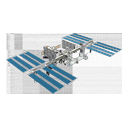
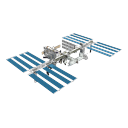
update(images): refine satellite image workflow and update ID 25544 presets
- Enhanced `ICON_WORKFLOW.md` with clarified instructions on preserving masters.
- Updated `process_satellite_icons.py` to prevent rewriting masters and ensure alpha preservation.
- Refreshed satellite images for ID 25544 across resolutions: 64, 128, 256, and full.

Changed region(s): [[0.0312, 0.25, 0.9688, 0.75], [0.5938, 0.4688, 0.625, 0.5], [0.25, 0.3125, 0.2812, 0.3438]]

diff --git a/backend/scripts/process_satellite_icons.py b/backend/scripts/process_satellite_icons.py
@@ -1,5 +1,5 @@
 #!/usr/bin/env python3
-"""Batch-generate transparent satellite icon masters and 64/128/256 presets."""
+"""Batch-generate 64/128/256 satellite icon presets from transparent masters."""
 
 from __future__ import annotations
 
@@ -337,7 +337,6 @@ def _extract_selected_mask(
 
 def process_satellite_image(
     source_path: Path,
-    source_dir: Path,
     output_dir: Path,
     sizes: list[int],
     padding_ratio: float,
@@ -407,16 +406,20 @@ def process_satellite_image(
 
     trimmed = rgba[top:bottom, left:right].copy()
     trimmed_mask = selected_mask[top:bottom, left:right]
-    trimmed[:, :, 3] = np.where(trimmed_mask, 255, 0).astype(np.uint8)
+    if np.all(source_alpha == 255):
+        trimmed[:, :, 3] = np.where(trimmed_mask, 255, 0).astype(np.uint8)
+    else:
+        # Masters already have an approved alpha mask. Preserve partial-alpha edge pixels
+        # in the resized presets instead of flattening them to opaque pixels.
+        trimmed[:, :, 3] = np.where(trimmed_mask, trimmed[:, :, 3], 0).astype(np.uint8)
     # Keep RGB black where transparent to avoid dark/bright fringes in compositing.
     trimmed[:, :, :3][trimmed[:, :, 3] == 0] = 0
 
     master_image = Image.fromarray(trimmed, mode="RGBA")
-    master_path = source_dir / f"{norad}.png"
+    master_path = source_path
     preset_paths = tuple(output_dir / str(size) / f"{norad}.png" for size in sizes)
 
     if apply_changes:
-        master_image.save(master_path)
         for size, preset_path in zip(sizes, preset_paths, strict=True):
             preset_path.parent.mkdir(parents=True, exist_ok=True)
             _center_fit_square(master_image, size, padding_ratio).save(preset_path)
@@ -445,8 +448,8 @@ def main() -> None:
 
     parser = argparse.ArgumentParser(
         description=(
-            "Batch-process NORAD-named satellite source images into transparent masters "
-            "and 64/128/256 icon presets."
+            "Batch-process NORAD-named satellite masters into 64/128/256 icon presets "
+            "without changing the master files."
         )
     )
     parser.add_argument(
@@ -463,7 +466,7 @@ def main() -> None:
         type=Path,
         default=default_output_dir,
         help=(
-            "Directory where the normalized masters and 64/128/256 presets are written "
+            "Directory where the 64/128/256 presets are written "
             "(default: backend/images/satellites)."
         ),
     )
@@ -535,7 +538,6 @@ def main() -> None:
         try:
             result = process_satellite_image(
                 source_path=source,
-                source_dir=source_dir,
                 output_dir=output_dir,
                 sizes=args.sizes,
                 padding_ratio=args.padding_ratio,

diff --git a/backend/images/satellites/ICON_WORKFLOW.md b/backend/images/satellites/ICON_WORKFLOW.md
@@ -12,8 +12,8 @@ Process all provided entries in one batch unless the user explicitly asks otherw
 
 1. Download the source image from the provided URL.
 2. Create a clean transparent icon from the source.
-3. Save/update these files:
-   - `backend/images/satellites/full/{NORAD}.png` (transparent master/fallback)
+3. Save the approved transparent master, then generate these presets:
+   - `backend/images/satellites/full/{NORAD}.png` (transparent master/fallback; never rewritten by the preset processor)
    - `backend/images/satellites/64/{NORAD}.png`
    - `backend/images/satellites/128/{NORAD}.png`
    - `backend/images/satellites/256/{NORAD}.png`
@@ -42,7 +42,8 @@ Process all provided entries in one batch unless the user explicitly asks otherw
 
 ## Batch automation (no LLM calls)
 
-Use `backend/scripts/process_satellite_icons.py` for deterministic batch processing.
+Use `backend/scripts/process_satellite_icons.py` for deterministic preset processing. It
+reads masters from `full/` without changing them, preserving their alpha values.
 
 Dry-run (report only, no writes):
 
